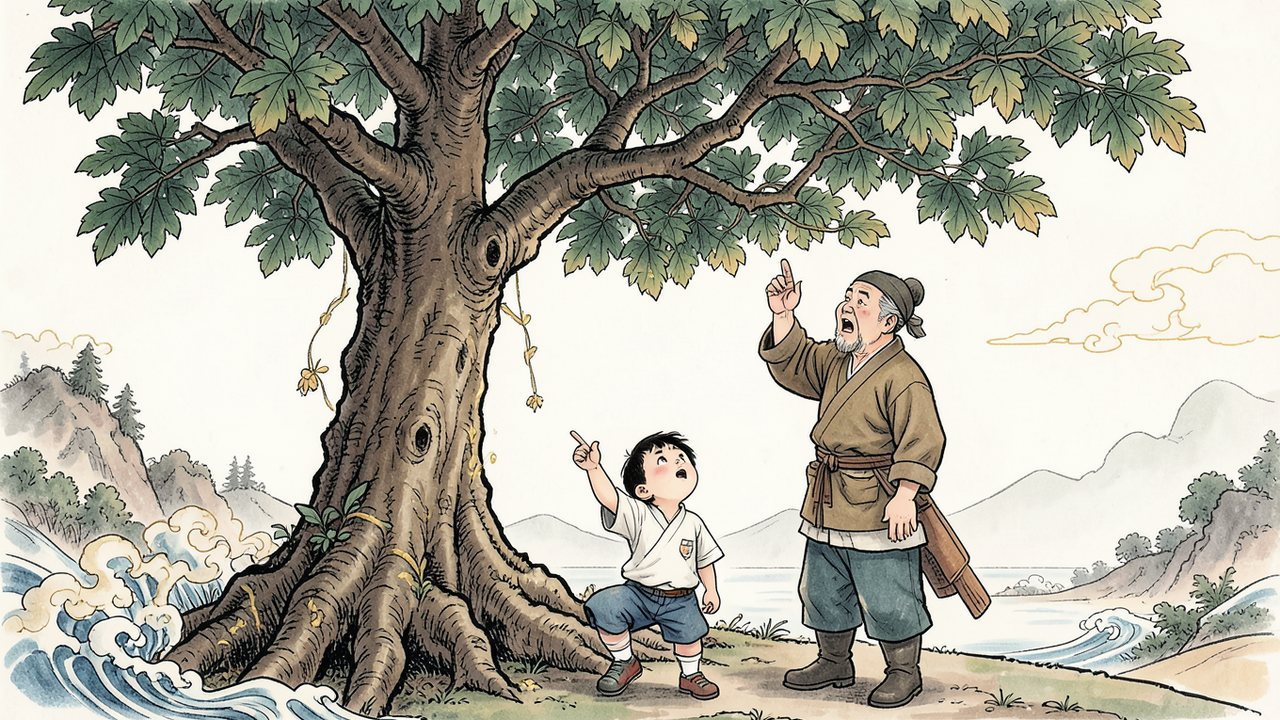
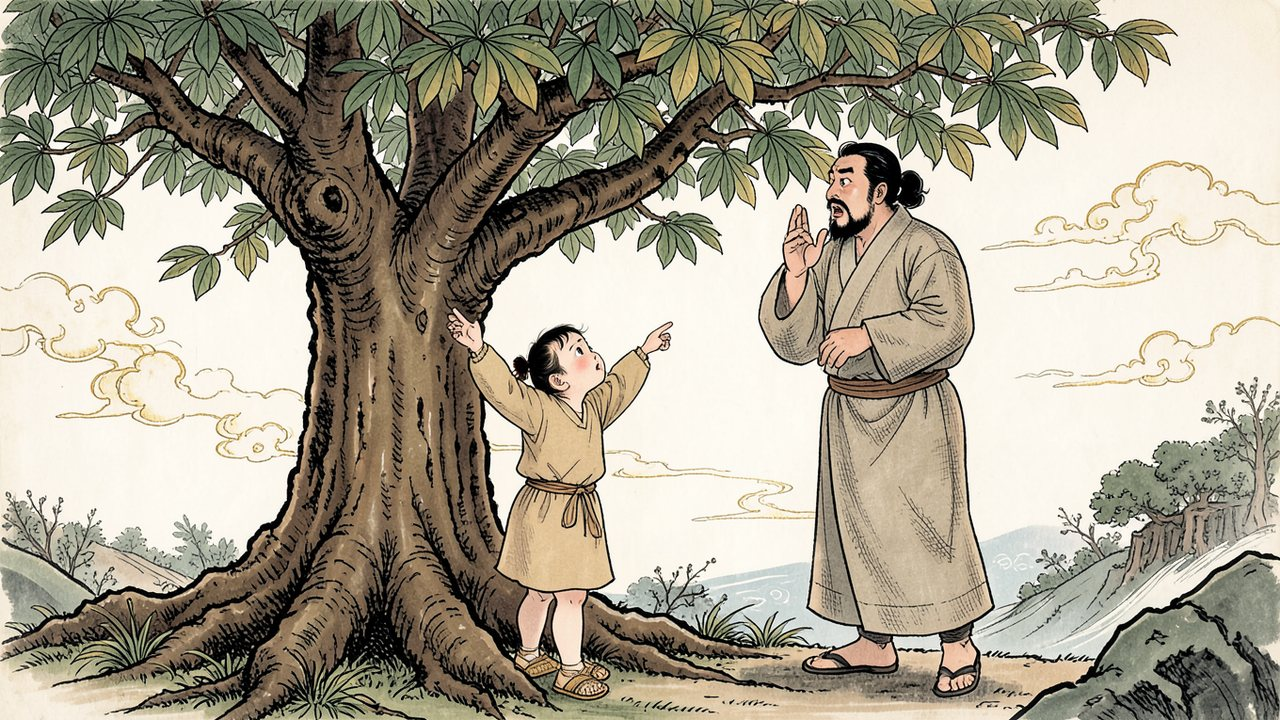
Stills: tree_b and office_c redone; face references only for close shots
The user's policy: wide, action and mood stills (lenses a and c) go without face references, which
drag in the portrait's pose and stiffen the picture; close shots (lens b) keep them.
Style line also rules out inscriptions, characters and red seal stamps.

Claude-Session: https://claude.ai/code/session_01CG7crrkzqt1vmaeQ7L7w6w

diff --git a/tk-cutscene.js b/tk-cutscene.js
@@ -605,7 +605,7 @@ const WorldCutscene = {
   // the prop atlas (props, emote bubbles, gift icons), loaded once per game
   // the stills that exist (tools/gen_stills.py writes assets/tk/stills/stills.json), fetched once
   stillIndex() {
-    if (!this._stills) this._stills = fetch("assets/tk/stills/stills.json?v=4").then(r => r.ok ? r.json() : {}).catch(() => ({}));
+    if (!this._stills) this._stills = fetch("assets/tk/stills/stills.json?v=5").then(r => r.ok ? r.json() : {}).catch(() => ({}));
     return this._stills;
   },
   load(scene) {

diff --git a/index.html b/index.html
@@ -28,7 +28,7 @@
 <script src="tk-town.js?v=19"></script>
 <script src="tk-world.js?v=68"></script>
 <script src="tk-items.js?v=5"></script>
-<script src="tk-cutscene.js?v=20"></script>
+<script src="tk-cutscene.js?v=21"></script>
 <script src="tk-music.js?v=4"></script>
 <script src="tk-travel.js?v=7"></script>
 <script src="app.js?v=51"></script>

diff --git a/tools/tk_stills.py b/tools/tk_stills.py
@@ -25,7 +25,7 @@ import re
 
 # the user's pick from the candidates below (gongbi), with what it tended to add uninvited ruled out
 STYLE = ("Style: Chinese gongbi painting brought to a modern game illustration: fine ink outlines, rich flat "
-         "mineral colours, gold leaf accents, stylised clouds and waves. No text, no speech or thought bubbles, no captions, no calligraphy, no seals, no "
+         "mineral colours, gold leaf accents, stylised clouds and waves. No text, no speech or thought bubbles, no captions, no calligraphy, no inscriptions, no characters, no red seal stamps, no seals, no "
          "signature, no watermark.")
 
 # candidates for STYLE, to choose by eye (gen_stills.py --styles): the user wants the stills to
@@ -189,8 +189,8 @@ SCENES = {
         "A humble village of earth-walled houses at golden morning, and above it a gigantic mulberry tree, "
         "its round crown spreading like the canopy of an imperial carriage; villagers pause in the lane to stare up.",
         "A small boy of six in a plain hemp tunic and straw sandals, hair in two tufts, stands under a great mulberry tree, "
-        "chin up, pointing at its canopy and declaring he will ride in a carriage like that one day; his uncle, a man of "
-        "forty in a farmer's hemp robe, startled beside him, hand raised to hush him. Han dynasty China, about 184 AD: nothing modern, no glass, no paved roads.",
+        "chin up, pointing at its canopy and declaring he will ride in a carriage like that one day; his uncle, a strong "
+        "dark-haired man with a short black beard, in a farmer's hemp robe, startled beside him, hand raised to hush him. Han dynasty China, about 184 AD: nothing modern, no glass, no paved roads.",
         "Looking straight up through the leaves of a vast mulberry tree, sunlight breaking through in rays, the leaves "
         "forming a perfect round canopy against a deep blue sky.",
     ),
@@ -215,8 +215,8 @@ SCENES = {
         "horse tethered for the sacrifice, three figures kneeling, petals drifting through shafts of light.",
         "Liu Bei, Guan Yu and Zhang Fei kneeling side by side before the altar, eyes closed, hands clasped, swearing "
         "brotherhood, incense smoke between them, petals in their hair.",
-        "Three plain bronze wine bowls, wide and shallow, no stems, no goblets, no glass, raised and touching above a "
-        "table under peach blossom, petals falling into the wine, golden evening light. Han dynasty China, about 184 AD: nothing modern, no glass, no paved roads.",
+        "Three small bronze wine cups, raised and touching in a toast by three hands (a white sleeve, a green sleeve, a "
+        "black sleeve), above a table under blossoming peach trees, petals falling into the wine, golden evening light. Han dynasty China, about 184 AD: nothing modern, no glass, no paved roads.",
     ),
     "council": (
         "A grand hall of a provincial governor, red pillars and a raised dais, officers in rows, a messenger kneeling "
@@ -277,7 +277,7 @@ SCENES = {
         "charge in from the side and turn the battle.",
         "Dong Zhuo seated in his army camp with banners behind him, sneering down at Liu Bei standing before him, as "
         "Zhang Fei lunges for his sword in rage and Liu Bei and Guan Yu together hold him back.",
-        "An overturned bronze wine cup, no glass, on a table, wine spilling, the shadow of a raised fist on the tent wall. Han dynasty China, about 184 AD: nothing modern, no glass, no paved roads.",
+        "An overturned bronze ding-shaped wine vessel with handles, clearly an ancient vessel, not a can, on a table, wine spilling, the shadow of a raised fist on the tent wall. Han dynasty China, about 184 AD: nothing modern, no glass, no paved roads.",
     ),
     "blackwind": (
         "Zhang Bao on a hilltop with his hair loose, sword raised, chanting, as a black whirlwind of storm cloud, sand "

diff --git a/tools/gen_stills.py b/tools/gen_stills.py
@@ -166,12 +166,18 @@ def style_refs():
     return sorted(f for f in d.iterdir() if f.suffix.lower() in (".png", ".jpg", ".jpeg", ".webp")) if d.exists() else []
 
 
+REF_LENSES = {"b"}   # the lenses (tk_stills.LENSES) that get face references
+
+
 def request(provider, sid=None, key=None):
     """(prompt, images) for a still or a portrait: style images first, then cast portraits."""
     style = style_refs()[:MAX_REFS] if provider in TAKES_REFS else []
     if key:
         return portrait(key, len(style)), [data_uri(f) for f in style]
-    cast = [k for k in cast_in(sid) if (OUT / f"refs/{k}.jpg").exists()] if provider in TAKES_REFS else []
+    # the user's policy: face references only for close shots (lens b). On wide, action and mood shots a
+    # reference drags in the portrait's pose and framing, and the picture goes stiff; words carry the look there.
+    close = sid.rsplit("_", 1)[-1] in REF_LENSES
+    cast = [k for k in cast_in(sid) if (OUT / f"refs/{k}.jpg").exists()] if provider in TAKES_REFS and close else []
     cast = cast[:MAX_REFS - len(style)]
     images = [data_uri(f) for f in style] + [data_uri(OUT / f"refs/{k}.jpg") for k in cast]
     return prompt(sid, len(style), cast), images
